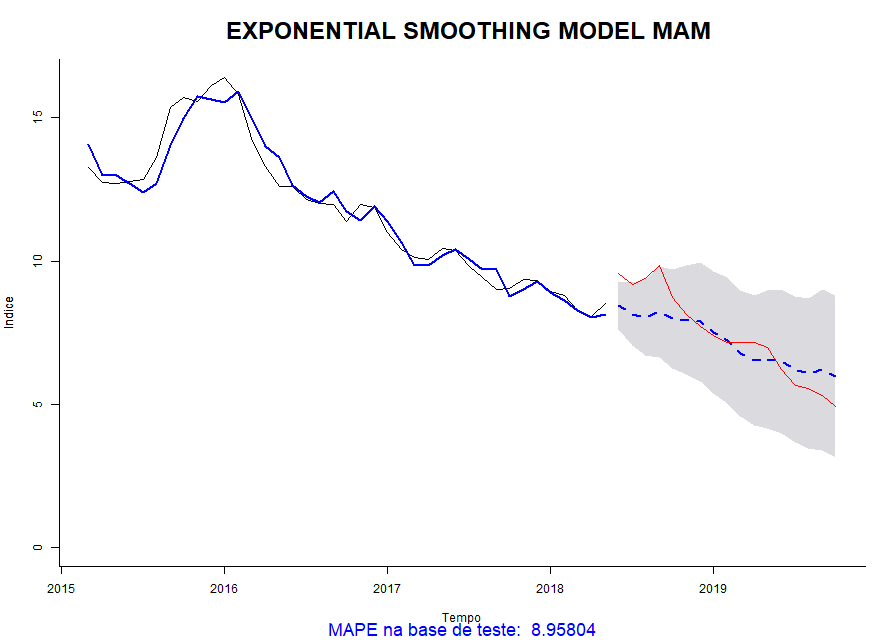
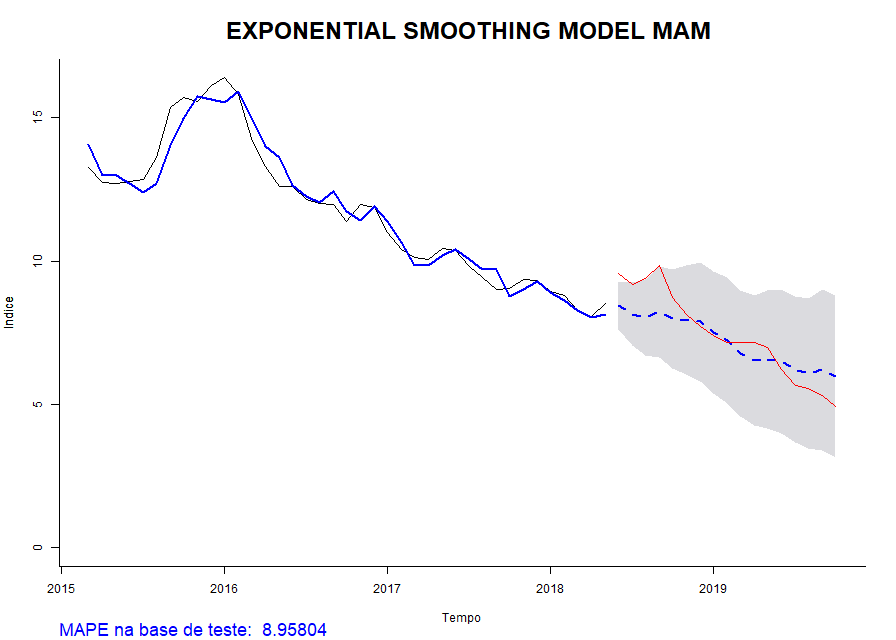
fix

Changed region(s): [[0.0625, 0.9688, 0.6562, 1.0]]

diff --git a/docs/04_models_exploration.html b/docs/04_models_exploration.html
@@ -557,22 +557,8 @@ $(document).ready(function () {
 <div class="sourceCode" id="cb9"><pre class="sourceCode r"><code class="sourceCode r"><a class="sourceLine" id="cb9-1" title="1">linear_consolidation &lt;-<span class="st"> </span><span class="kw">GenerateLinearTimeSeriesModels</span>(train_ts, </a>
 <a class="sourceLine" id="cb9-2" title="2">                                                       test_ts, </a>
 <a class="sourceLine" id="cb9-3" title="3">                                                       test_sample_size)</a></code></pre></div>
-<pre><code>## Warning in title(sub = paste(&quot;MAPE na base de teste: &quot;,
-## round(model$accuracy[&quot;Test set&quot;, : &quot;adj.sub&quot; is not a graphical parameter
-
-## Warning in title(sub = paste(&quot;MAPE na base de teste: &quot;,
-## round(model$accuracy[&quot;Test set&quot;, : &quot;adj.sub&quot; is not a graphical parameter
-
-## Warning in title(sub = paste(&quot;MAPE na base de teste: &quot;,
-## round(model$accuracy[&quot;Test set&quot;, : &quot;adj.sub&quot; is not a graphical parameter
-
-## Warning in title(sub = paste(&quot;MAPE na base de teste: &quot;,
-## round(model$accuracy[&quot;Test set&quot;, : &quot;adj.sub&quot; is not a graphical parameter
-
-## Warning in title(sub = paste(&quot;MAPE na base de teste: &quot;,
-## round(model$accuracy[&quot;Test set&quot;, : &quot;adj.sub&quot; is not a graphical parameter</code></pre>
 <p>Uma vez executada, a função retorna um preview com os resultados de MAPE para cada um dos modelos, mostrados a seguir.</p>
-<div class="sourceCode" id="cb11"><pre class="sourceCode r"><code class="sourceCode r"><a class="sourceLine" id="cb11-1" title="1"><span class="kw">kable</span>(linear_consolidation)</a></code></pre></div>
+<div class="sourceCode" id="cb10"><pre class="sourceCode r"><code class="sourceCode r"><a class="sourceLine" id="cb10-1" title="1"><span class="kw">kable</span>(linear_consolidation)</a></code></pre></div>
 <table>
 <thead>
 <tr class="header">
@@ -613,14 +599,14 @@ $(document).ready(function () {
 <div id="rodando-e-salvando-o-modelo-moving-average-ma-de-séries-temporais" class="section level2">
 <h2><span class="header-section-number">2.3</span> Rodando e salvando o modelo Moving Average (MA) de séries temporais</h2>
 <p>Para executarmos o modelo Moving Average (MA) de séries temporais, utilizamos a função <strong>GenerateMovingAverageTimeSeriesModel</strong> criada para rodar este modelo, gravando os resultados no diretório do projeto <strong>\models</strong> para uso futuro.</p>
-<div class="sourceCode" id="cb12"><pre class="sourceCode r"><code class="sourceCode r"><a class="sourceLine" id="cb12-1" title="1">ma_consolidation &lt;-<span class="st"> </span><span class="kw">GenerateMovingAverageTimeSeriesModel</span>(target_ts, </a>
-<a class="sourceLine" id="cb12-2" title="2">                                                         train_ts, </a>
-<a class="sourceLine" id="cb12-3" title="3">                                                         test_ts, </a>
-<a class="sourceLine" id="cb12-4" title="4">                                                         test_sample_size,</a>
-<a class="sourceLine" id="cb12-5" title="5">                                                         parameters<span class="op">$</span>start_year,</a>
-<a class="sourceLine" id="cb12-6" title="6">                                                         parameters<span class="op">$</span>end_year)</a></code></pre></div>
+<div class="sourceCode" id="cb11"><pre class="sourceCode r"><code class="sourceCode r"><a class="sourceLine" id="cb11-1" title="1">ma_consolidation &lt;-<span class="st"> </span><span class="kw">GenerateMovingAverageTimeSeriesModel</span>(target_ts, </a>
+<a class="sourceLine" id="cb11-2" title="2">                                                         train_ts, </a>
+<a class="sourceLine" id="cb11-3" title="3">                                                         test_ts, </a>
+<a class="sourceLine" id="cb11-4" title="4">                                                         test_sample_size,</a>
+<a class="sourceLine" id="cb11-5" title="5">                                                         parameters<span class="op">$</span>start_year,</a>
+<a class="sourceLine" id="cb11-6" title="6">                                                         parameters<span class="op">$</span>end_year)</a></code></pre></div>
 <p>Uma vez executada, a função retorna um preview com os resultados de MAPE para o modelo, mostrados a seguir.</p>
-<div class="sourceCode" id="cb13"><pre class="sourceCode r"><code class="sourceCode r"><a class="sourceLine" id="cb13-1" title="1"><span class="kw">kable</span>(ma_consolidation)</a></code></pre></div>
+<div class="sourceCode" id="cb12"><pre class="sourceCode r"><code class="sourceCode r"><a class="sourceLine" id="cb12-1" title="1"><span class="kw">kable</span>(ma_consolidation)</a></code></pre></div>
 <table>
 <thead>
 <tr class="header">
@@ -641,50 +627,12 @@ $(document).ready(function () {
 <div id="rodando-e-salvando-os-modelos-de-suavização-exponencial-de-séries-temporais" class="section level2">
 <h2><span class="header-section-number">2.4</span> Rodando e salvando os modelos de suavização exponencial de séries temporais</h2>
 <p>Para executarmos todos os modelos de suavização exponencial de séries temporais, utilizamos a função <strong>GenerateExponentialsmoothingStateTimeSeriesModel</strong> criada para rodar cada um dos modelos desejados, gravando os resultados no diretório do projeto <strong>\models</strong> para uso futuro.</p>
-<div class="sourceCode" id="cb14"><pre class="sourceCode r"><code class="sourceCode r"><a class="sourceLine" id="cb14-1" title="1">smoothing_consolidation &lt;-<span class="st"> </span><span class="kw">GenerateExponentialsmoothingStateTimeSeriesModel</span>(target_ts, </a>
-<a class="sourceLine" id="cb14-2" title="2">                                                                            train_ts, </a>
-<a class="sourceLine" id="cb14-3" title="3">                                                                            test_ts, </a>
-<a class="sourceLine" id="cb14-4" title="4">                                                                            test_sample_size)</a></code></pre></div>
-<pre><code>## Warning in title(sub = paste(&quot;MAPE na base de teste: &quot;,
-## round(model$accuracy[&quot;Test set&quot;, : &quot;adj.sub&quot; is not a graphical parameter
-
-## Warning in title(sub = paste(&quot;MAPE na base de teste: &quot;,
-## round(model$accuracy[&quot;Test set&quot;, : &quot;adj.sub&quot; is not a graphical parameter
-
-## Warning in title(sub = paste(&quot;MAPE na base de teste: &quot;,
-## round(model$accuracy[&quot;Test set&quot;, : &quot;adj.sub&quot; is not a graphical parameter
-
-## Warning in title(sub = paste(&quot;MAPE na base de teste: &quot;,
-## round(model$accuracy[&quot;Test set&quot;, : &quot;adj.sub&quot; is not a graphical parameter
-
-## Warning in title(sub = paste(&quot;MAPE na base de teste: &quot;,
-## round(model$accuracy[&quot;Test set&quot;, : &quot;adj.sub&quot; is not a graphical parameter
-
-## Warning in title(sub = paste(&quot;MAPE na base de teste: &quot;,
-## round(model$accuracy[&quot;Test set&quot;, : &quot;adj.sub&quot; is not a graphical parameter
-
-## Warning in title(sub = paste(&quot;MAPE na base de teste: &quot;,
-## round(model$accuracy[&quot;Test set&quot;, : &quot;adj.sub&quot; is not a graphical parameter
-
-## Warning in title(sub = paste(&quot;MAPE na base de teste: &quot;,
-## round(model$accuracy[&quot;Test set&quot;, : &quot;adj.sub&quot; is not a graphical parameter
-
-## Warning in title(sub = paste(&quot;MAPE na base de teste: &quot;,
-## round(model$accuracy[&quot;Test set&quot;, : &quot;adj.sub&quot; is not a graphical parameter
-
-## Warning in title(sub = paste(&quot;MAPE na base de teste: &quot;,
-## round(model$accuracy[&quot;Test set&quot;, : &quot;adj.sub&quot; is not a graphical parameter
-
-## Warning in title(sub = paste(&quot;MAPE na base de teste: &quot;,
-## round(model$accuracy[&quot;Test set&quot;, : &quot;adj.sub&quot; is not a graphical parameter
-
-## Warning in title(sub = paste(&quot;MAPE na base de teste: &quot;,
-## round(model$accuracy[&quot;Test set&quot;, : &quot;adj.sub&quot; is not a graphical parameter
-
-## Warning in title(sub = paste(&quot;MAPE na base de teste: &quot;,
-## round(model$accuracy[&quot;Test set&quot;, : &quot;adj.sub&quot; is not a graphical parameter</code></pre>
+<div class="sourceCode" id="cb13"><pre class="sourceCode r"><code class="sourceCode r"><a class="sourceLine" id="cb13-1" title="1">smoothing_consolidation &lt;-<span class="st"> </span><span class="kw">GenerateExponentialsmoothingStateTimeSeriesModel</span>(target_ts, </a>
+<a class="sourceLine" id="cb13-2" title="2">                                                                            train_ts, </a>
+<a class="sourceLine" id="cb13-3" title="3">                                                                            test_ts, </a>
+<a class="sourceLine" id="cb13-4" title="4">                                                                            test_sample_size)</a></code></pre></div>
 <p>Uma vez executada, a função retorna um preview com os resultados de MAPE para cada um dos modelos, mostrados a seguir.</p>
-<div class="sourceCode" id="cb16"><pre class="sourceCode r"><code class="sourceCode r"><a class="sourceLine" id="cb16-1" title="1"><span class="kw">kable</span>(smoothing_consolidation)</a></code></pre></div>
+<div class="sourceCode" id="cb14"><pre class="sourceCode r"><code class="sourceCode r"><a class="sourceLine" id="cb14-1" title="1"><span class="kw">kable</span>(smoothing_consolidation)</a></code></pre></div>
 <table>
 <thead>
 <tr class="header">
@@ -771,16 +719,16 @@ $(document).ready(function () {
 <p>O cálculo dessa métrica pega o valor absoluto do erro dividido pelo preço real e posteriormente é calculada a média:</p>
 <p><span class="math display">\[MAPE = \frac{1}{n} \sum_{d_i} (\frac{1}{q} \sum_{t_j}\left\lvert{\frac{gap_{i,j}-s_{i,j}}{gap_{i,j}}}\right\rvert)\]</span></p>
 <p>Para analisar o desempenho dos modelos utilizados em nosso dataset de série temporal, vamos primeiramente classificar do melhor para o pior, baseado no resultado de <strong>MAPE na base de teste</strong>.</p>
-<div class="sourceCode" id="cb17"><pre class="sourceCode r"><code class="sourceCode r"><a class="sourceLine" id="cb17-1" title="1">mape_ranking &lt;-<span class="st"> </span><span class="kw">rbind</span>(naive_consolidation,</a>
-<a class="sourceLine" id="cb17-2" title="2">                      linear_consolidation,</a>
-<a class="sourceLine" id="cb17-3" title="3">                      ma_consolidation,</a>
-<a class="sourceLine" id="cb17-4" title="4">                      smoothing_consolidation) <span class="op">%&gt;%</span><span class="st"> </span></a>
-<a class="sourceLine" id="cb17-5" title="5"><span class="st">        </span><span class="kw">arrange</span>(MAPE_Test) <span class="op">%&gt;%</span><span class="st"> </span></a>
-<a class="sourceLine" id="cb17-6" title="6"><span class="st">        </span><span class="kw">mutate</span>(<span class="dt">Rank_ID =</span> <span class="kw">row_number</span>()) </a>
-<a class="sourceLine" id="cb17-7" title="7"></a>
-<a class="sourceLine" id="cb17-8" title="8">mape_ranking &lt;-<span class="st"> </span>mape_ranking[<span class="kw">c</span>(<span class="dv">4</span>,<span class="dv">1</span>,<span class="dv">2</span>,<span class="dv">3</span>)]</a>
-<a class="sourceLine" id="cb17-9" title="9"></a>
-<a class="sourceLine" id="cb17-10" title="10"><span class="kw">kable</span>(mape_ranking)</a></code></pre></div>
+<div class="sourceCode" id="cb15"><pre class="sourceCode r"><code class="sourceCode r"><a class="sourceLine" id="cb15-1" title="1">mape_ranking &lt;-<span class="st"> </span><span class="kw">rbind</span>(naive_consolidation,</a>
+<a class="sourceLine" id="cb15-2" title="2">                      linear_consolidation,</a>
+<a class="sourceLine" id="cb15-3" title="3">                      ma_consolidation,</a>
+<a class="sourceLine" id="cb15-4" title="4">                      smoothing_consolidation) <span class="op">%&gt;%</span><span class="st"> </span></a>
+<a class="sourceLine" id="cb15-5" title="5"><span class="st">        </span><span class="kw">arrange</span>(MAPE_Test) <span class="op">%&gt;%</span><span class="st"> </span></a>
+<a class="sourceLine" id="cb15-6" title="6"><span class="st">        </span><span class="kw">mutate</span>(<span class="dt">Rank_ID =</span> <span class="kw">row_number</span>()) </a>
+<a class="sourceLine" id="cb15-7" title="7"></a>
+<a class="sourceLine" id="cb15-8" title="8">mape_ranking &lt;-<span class="st"> </span>mape_ranking[<span class="kw">c</span>(<span class="dv">4</span>,<span class="dv">1</span>,<span class="dv">2</span>,<span class="dv">3</span>)]</a>
+<a class="sourceLine" id="cb15-9" title="9"></a>
+<a class="sourceLine" id="cb15-10" title="10"><span class="kw">kable</span>(mape_ranking)</a></code></pre></div>
 <table>
 <thead>
 <tr class="header">
@@ -915,11 +863,11 @@ $(document).ready(function () {
 </table>
 <p>O modelo <strong>ts_exponential_smoothing_model_MAM</strong> demonstrou a melhor métrica de <strong>MAPE</strong>, com o valor de <strong>8.9580367</strong>.</p>
 <p>Para analisarmos com mais detalhes o modelo com melhor performance, vamos carregar o objeto salvo anteriormente com todos os resultados do modelo.</p>
-<div class="sourceCode" id="cb18"><pre class="sourceCode r"><code class="sourceCode r"><a class="sourceLine" id="cb18-1" title="1">best_model &lt;-<span class="st"> </span><span class="kw">readRDS</span>(<span class="kw">paste0</span>(<span class="st">&#39;../models/&#39;</span>, mape_ranking[<span class="dv">1</span>,<span class="dv">2</span>], <span class="st">&#39;.rds&#39;</span>))</a></code></pre></div>
+<div class="sourceCode" id="cb16"><pre class="sourceCode r"><code class="sourceCode r"><a class="sourceLine" id="cb16-1" title="1">best_model &lt;-<span class="st"> </span><span class="kw">readRDS</span>(<span class="kw">paste0</span>(<span class="st">&#39;../models/&#39;</span>, mape_ranking[<span class="dv">1</span>,<span class="dv">2</span>], <span class="st">&#39;.rds&#39;</span>))</a></code></pre></div>
 <div id="checando-a-aderencia-do-melhor-modelo-na-base-de-validação" class="section level2">
 <h2><span class="header-section-number">3.1</span> Checando a aderencia do melhor modelo na base de validação</h2>
-<div class="sourceCode" id="cb19"><pre class="sourceCode r"><code class="sourceCode r"><a class="sourceLine" id="cb19-1" title="1"><span class="co"># call function go create a GIF based on the plotted models</span></a>
-<a class="sourceLine" id="cb19-2" title="2"><span class="kw">GenerateFitPlotGIF</span>()</a></code></pre></div>
+<div class="sourceCode" id="cb17"><pre class="sourceCode r"><code class="sourceCode r"><a class="sourceLine" id="cb17-1" title="1"><span class="co"># call function go create a GIF based on the plotted models</span></a>
+<a class="sourceLine" id="cb17-2" title="2"><span class="kw">GenerateFitPlotGIF</span>()</a></code></pre></div>
 <div class="figure">
 <img src="https://raw.githubusercontent.com/ldaniel/Time-Series-Analysis/master/gifs/model_fit.gif" alt="Animação do fit de na base de testes de todos os modelos lineares e exponenciais calculados." />
 <p class="caption">Animação do fit de na base de testes de todos os modelos lineares e exponenciais calculados.</p>
@@ -927,7 +875,7 @@ $(document).ready(function () {
 </div>
 <div id="resultados-gerais-do-modelo-com-a-melhor-métrica-mape" class="section level2">
 <h2><span class="header-section-number">3.2</span> Resultados gerais do modelo com a melhor métrica MAPE</h2>
-<div class="sourceCode" id="cb20"><pre class="sourceCode r"><code class="sourceCode r"><a class="sourceLine" id="cb20-1" title="1"><span class="kw">summary</span>(best_model<span class="op">$</span>model)</a></code></pre></div>
+<div class="sourceCode" id="cb18"><pre class="sourceCode r"><code class="sourceCode r"><a class="sourceLine" id="cb18-1" title="1"><span class="kw">summary</span>(best_model<span class="op">$</span>model)</a></code></pre></div>
 <pre><code>## ETS(M,A,M) 
 ## 
 ## Call:
@@ -956,12 +904,12 @@ $(document).ready(function () {
 ## Training set 0.4978577</code></pre>
 <div id="checando-autocorrelação-do-modelo" class="section level3">
 <h3><span class="header-section-number">3.2.1</span> Checando autocorrelação do modelo</h3>
-<div class="sourceCode" id="cb22"><pre class="sourceCode r"><code class="sourceCode r"><a class="sourceLine" id="cb22-1" title="1"><span class="kw">Acf</span>(best_model<span class="op">$</span>model<span class="op">$</span>residuals)</a></code></pre></div>
+<div class="sourceCode" id="cb20"><pre class="sourceCode r"><code class="sourceCode r"><a class="sourceLine" id="cb20-1" title="1"><span class="kw">Acf</span>(best_model<span class="op">$</span>model<span class="op">$</span>residuals)</a></code></pre></div>
 <p><img src="04_models_exploration_files/figure-html/best_model_Acf-1.png" width="100%" /></p>
 </div>
 <div id="checando-resíduos-do-modelo" class="section level3">
 <h3><span class="header-section-number">3.2.2</span> Checando resíduos do modelo</h3>
-<div class="sourceCode" id="cb23"><pre class="sourceCode r"><code class="sourceCode r"><a class="sourceLine" id="cb23-1" title="1"><span class="kw">checkresiduals</span>(best_model<span class="op">$</span>model, <span class="dt">test =</span> <span class="st">&quot;LB&quot;</span>)</a></code></pre></div>
+<div class="sourceCode" id="cb21"><pre class="sourceCode r"><code class="sourceCode r"><a class="sourceLine" id="cb21-1" title="1"><span class="kw">checkresiduals</span>(best_model<span class="op">$</span>model, <span class="dt">test =</span> <span class="st">&quot;LB&quot;</span>)</a></code></pre></div>
 <p><img src="04_models_exploration_files/figure-html/best_model_residuals-1.png" width="100%" /></p>
 <pre><code>## 
 ##  Ljung-Box test
@@ -973,7 +921,7 @@ $(document).ready(function () {
 </div>
 <div id="checando-a-projeção-do-modelo" class="section level3">
 <h3><span class="header-section-number">3.2.3</span> Checando a projeção do modelo</h3>
-<div class="sourceCode" id="cb25"><pre class="sourceCode r"><code class="sourceCode r"><a class="sourceLine" id="cb25-1" title="1"><span class="kw">summary</span>(best_model<span class="op">$</span>model_projected)</a></code></pre></div>
+<div class="sourceCode" id="cb23"><pre class="sourceCode r"><code class="sourceCode r"><a class="sourceLine" id="cb23-1" title="1"><span class="kw">summary</span>(best_model<span class="op">$</span>model_projected)</a></code></pre></div>
 <pre><code>## 
 ## Forecast method: ETS(M,A,M)
 ## 
@@ -1027,25 +975,25 @@ $(document).ready(function () {
 </div>
 <div id="checando-a-aderência-do-melhor-modelo-na-base-de-validação" class="section level3">
 <h3><span class="header-section-number">3.2.4</span> Checando a aderência do melhor modelo na base de validação</h3>
-<div class="sourceCode" id="cb27"><pre class="sourceCode r"><code class="sourceCode r"><a class="sourceLine" id="cb27-1" title="1"><span class="kw">plot</span>(best_model<span class="op">$</span>model_projected, </a>
-<a class="sourceLine" id="cb27-2" title="2">     <span class="dt">bty =</span> <span class="st">&quot;l&quot;</span>,</a>
-<a class="sourceLine" id="cb27-3" title="3">     <span class="dt">ylim =</span> <span class="kw">c</span>(<span class="dv">0</span>, <span class="kw">max</span>(best_model<span class="op">$</span>model_final_projected<span class="op">$</span>fitted) <span class="op">*</span><span class="st"> </span><span class="fl">1.1</span>), </a>
-<a class="sourceLine" id="cb27-4" title="4">     <span class="dt">flty =</span> <span class="dv">2</span>,</a>
-<a class="sourceLine" id="cb27-5" title="5">     <span class="dt">ylab =</span> <span class="st">&#39;Indice&#39;</span>,</a>
-<a class="sourceLine" id="cb27-6" title="6">     <span class="dt">main =</span> <span class="kw">str_to_upper</span>(<span class="kw">str_replace_all</span>(best_model<span class="op">$</span>title,<span class="st">&#39;ts|_&#39;</span>,<span class="st">&#39; &#39;</span>)))</a>
-<a class="sourceLine" id="cb27-7" title="7"></a>
-<a class="sourceLine" id="cb27-8" title="8"><span class="kw">title</span>(<span class="dt">sub =</span> <span class="kw">paste</span>(<span class="st">&#39;MAPE na base de teste: &#39;</span>, <span class="kw">round</span>(<span class="kw">filter</span>(mape_ranking, Model <span class="op">==</span><span class="st"> </span>best_model<span class="op">$</span>title)<span class="op">$</span>MAPE_Test, <span class="dv">5</span>)),</a>
-<a class="sourceLine" id="cb27-9" title="9">      <span class="dt">col.sub =</span> <span class="st">&#39;blue&#39;</span>,</a>
-<a class="sourceLine" id="cb27-10" title="10">      <span class="dt">cex.sub =</span> <span class="fl">1.5</span>,</a>
-<a class="sourceLine" id="cb27-11" title="11">      <span class="dt">adj =</span> <span class="fl">0.5</span>)</a>
-<a class="sourceLine" id="cb27-12" title="12"></a>
-<a class="sourceLine" id="cb27-13" title="13"><span class="kw">lines</span>(best_model<span class="op">$</span>model_projected<span class="op">$</span>fitted, <span class="dt">lwd=</span><span class="dv">2</span>, <span class="dt">col =</span> <span class="st">&quot;blue&quot;</span>)</a>
-<a class="sourceLine" id="cb27-14" title="14"><span class="kw">lines</span>(test_ts, <span class="dt">col =</span> <span class="st">&#39;red&#39;</span>)</a></code></pre></div>
+<div class="sourceCode" id="cb25"><pre class="sourceCode r"><code class="sourceCode r"><a class="sourceLine" id="cb25-1" title="1"><span class="kw">plot</span>(best_model<span class="op">$</span>model_projected, </a>
+<a class="sourceLine" id="cb25-2" title="2">     <span class="dt">bty =</span> <span class="st">&quot;l&quot;</span>,</a>
+<a class="sourceLine" id="cb25-3" title="3">     <span class="dt">ylim =</span> <span class="kw">c</span>(<span class="dv">0</span>, <span class="kw">max</span>(best_model<span class="op">$</span>model_final_projected<span class="op">$</span>fitted) <span class="op">*</span><span class="st"> </span><span class="fl">1.1</span>), </a>
+<a class="sourceLine" id="cb25-4" title="4">     <span class="dt">flty =</span> <span class="dv">2</span>,</a>
+<a class="sourceLine" id="cb25-5" title="5">     <span class="dt">ylab =</span> <span class="st">&#39;Indice&#39;</span>,</a>
+<a class="sourceLine" id="cb25-6" title="6">     <span class="dt">main =</span> <span class="kw">str_to_upper</span>(<span class="kw">str_replace_all</span>(best_model<span class="op">$</span>title,<span class="st">&#39;ts|_&#39;</span>,<span class="st">&#39; &#39;</span>)))</a>
+<a class="sourceLine" id="cb25-7" title="7"></a>
+<a class="sourceLine" id="cb25-8" title="8"><span class="kw">title</span>(<span class="dt">sub =</span> <span class="kw">paste</span>(<span class="st">&#39;MAPE na base de teste: &#39;</span>, <span class="kw">round</span>(<span class="kw">filter</span>(mape_ranking, Model <span class="op">==</span><span class="st"> </span>best_model<span class="op">$</span>title)<span class="op">$</span>MAPE_Test, <span class="dv">5</span>)),</a>
+<a class="sourceLine" id="cb25-9" title="9">      <span class="dt">col.sub =</span> <span class="st">&#39;blue&#39;</span>,</a>
+<a class="sourceLine" id="cb25-10" title="10">      <span class="dt">cex.sub =</span> <span class="fl">1.5</span>,</a>
+<a class="sourceLine" id="cb25-11" title="11">      <span class="dt">adj =</span> <span class="fl">0.5</span>)</a>
+<a class="sourceLine" id="cb25-12" title="12"></a>
+<a class="sourceLine" id="cb25-13" title="13"><span class="kw">lines</span>(best_model<span class="op">$</span>model_projected<span class="op">$</span>fitted, <span class="dt">lwd=</span><span class="dv">2</span>, <span class="dt">col =</span> <span class="st">&quot;blue&quot;</span>)</a>
+<a class="sourceLine" id="cb25-14" title="14"><span class="kw">lines</span>(test_ts, <span class="dt">col =</span> <span class="st">&#39;red&#39;</span>)</a></code></pre></div>
 <p><img src="04_models_exploration_files/figure-html/best_model_aderencia-1.png" width="100%" /></p>
 </div>
 <div id="checando-as-métricas-do-modelo" class="section level3">
 <h3><span class="header-section-number">3.2.5</span> Checando as métricas do modelo</h3>
-<div class="sourceCode" id="cb28"><pre class="sourceCode r"><code class="sourceCode r"><a class="sourceLine" id="cb28-1" title="1">best_model<span class="op">$</span>accuracy</a></code></pre></div>
+<div class="sourceCode" id="cb26"><pre class="sourceCode r"><code class="sourceCode r"><a class="sourceLine" id="cb26-1" title="1">best_model<span class="op">$</span>accuracy</a></code></pre></div>
 <pre><code>##                      ME      RMSE       MAE         MPE     MAPE      MASE
 ## Training set 0.01167671 0.4868050 0.3682654 0.001297779 2.997105 0.1479532
 ## Test set     0.22663207 0.7975745 0.6593151 1.067556556 8.958037 0.2648845
@@ -1055,17 +1003,17 @@ $(document).ready(function () {
 </div>
 <div id="checando-a-projeção-final-do-modelo" class="section level3">
 <h3><span class="header-section-number">3.2.6</span> Checando a projeção final do modelo</h3>
-<div class="sourceCode" id="cb30"><pre class="sourceCode r"><code class="sourceCode r"><a class="sourceLine" id="cb30-1" title="1"><span class="kw">plot</span>(best_model<span class="op">$</span>model_final_projected, </a>
-<a class="sourceLine" id="cb30-2" title="2">     <span class="dt">bty =</span> <span class="st">&quot;l&quot;</span>,</a>
-<a class="sourceLine" id="cb30-3" title="3">     <span class="dt">ylim =</span> <span class="kw">c</span>(<span class="dv">0</span>, <span class="kw">max</span>(best_model<span class="op">$</span>model_final_projected<span class="op">$</span>fitted) <span class="op">*</span><span class="st"> </span><span class="fl">1.1</span>), </a>
-<a class="sourceLine" id="cb30-4" title="4">     <span class="dt">flty =</span> <span class="dv">2</span>, </a>
-<a class="sourceLine" id="cb30-5" title="5">     <span class="dt">main =</span> <span class="kw">str_to_title</span>(<span class="kw">str_replace_all</span>(best_model<span class="op">$</span>title,<span class="st">&#39;ts|_&#39;</span>,<span class="st">&#39; &#39;</span>)))</a>
-<a class="sourceLine" id="cb30-6" title="6"></a>
-<a class="sourceLine" id="cb30-7" title="7"><span class="kw">title</span>(<span class="dt">sub =</span> <span class="st">&#39;Projeção do modelo com os parâmetros recalculados usando a base completa&#39;</span>, <span class="dt">col.sub =</span> <span class="st">&#39;blue&#39;</span>,</a>
-<a class="sourceLine" id="cb30-8" title="8">      <span class="dt">xlab =</span> <span class="st">&quot;Tempo&quot;</span>,</a>
-<a class="sourceLine" id="cb30-9" title="9">      <span class="dt">ylab =</span> <span class="st">&quot;Indice&quot;</span>)</a>
-<a class="sourceLine" id="cb30-10" title="10"></a>
-<a class="sourceLine" id="cb30-11" title="11"><span class="kw">lines</span>(best_model<span class="op">$</span>model_final_projected<span class="op">$</span>fitted, <span class="dt">lwd=</span><span class="dv">2</span>, <span class="dt">col=</span><span class="st">&quot;blue&quot;</span>)</a></code></pre></div>
+<div class="sourceCode" id="cb28"><pre class="sourceCode r"><code class="sourceCode r"><a class="sourceLine" id="cb28-1" title="1"><span class="kw">plot</span>(best_model<span class="op">$</span>model_final_projected, </a>
+<a class="sourceLine" id="cb28-2" title="2">     <span class="dt">bty =</span> <span class="st">&quot;l&quot;</span>,</a>
+<a class="sourceLine" id="cb28-3" title="3">     <span class="dt">ylim =</span> <span class="kw">c</span>(<span class="dv">0</span>, <span class="kw">max</span>(best_model<span class="op">$</span>model_final_projected<span class="op">$</span>fitted) <span class="op">*</span><span class="st"> </span><span class="fl">1.1</span>), </a>
+<a class="sourceLine" id="cb28-4" title="4">     <span class="dt">flty =</span> <span class="dv">2</span>, </a>
+<a class="sourceLine" id="cb28-5" title="5">     <span class="dt">main =</span> <span class="kw">str_to_title</span>(<span class="kw">str_replace_all</span>(best_model<span class="op">$</span>title,<span class="st">&#39;ts|_&#39;</span>,<span class="st">&#39; &#39;</span>)))</a>
+<a class="sourceLine" id="cb28-6" title="6"></a>
+<a class="sourceLine" id="cb28-7" title="7"><span class="kw">title</span>(<span class="dt">sub =</span> <span class="st">&#39;Projeção do modelo com os parâmetros recalculados usando a base completa&#39;</span>, <span class="dt">col.sub =</span> <span class="st">&#39;blue&#39;</span>,</a>
+<a class="sourceLine" id="cb28-8" title="8">      <span class="dt">xlab =</span> <span class="st">&quot;Tempo&quot;</span>,</a>
+<a class="sourceLine" id="cb28-9" title="9">      <span class="dt">ylab =</span> <span class="st">&quot;Indice&quot;</span>)</a>
+<a class="sourceLine" id="cb28-10" title="10"></a>
+<a class="sourceLine" id="cb28-11" title="11"><span class="kw">lines</span>(best_model<span class="op">$</span>model_final_projected<span class="op">$</span>fitted, <span class="dt">lwd=</span><span class="dv">2</span>, <span class="dt">col=</span><span class="st">&quot;blue&quot;</span>)</a></code></pre></div>
 <p><img src="04_models_exploration_files/figure-html/best_model_final_projection-1.png" width="100%" /></p>
 </div>
 </div>
